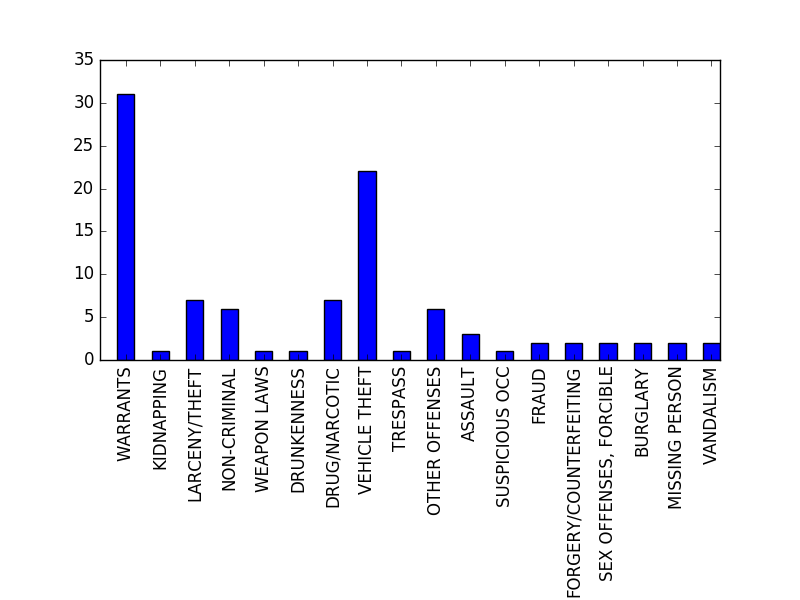
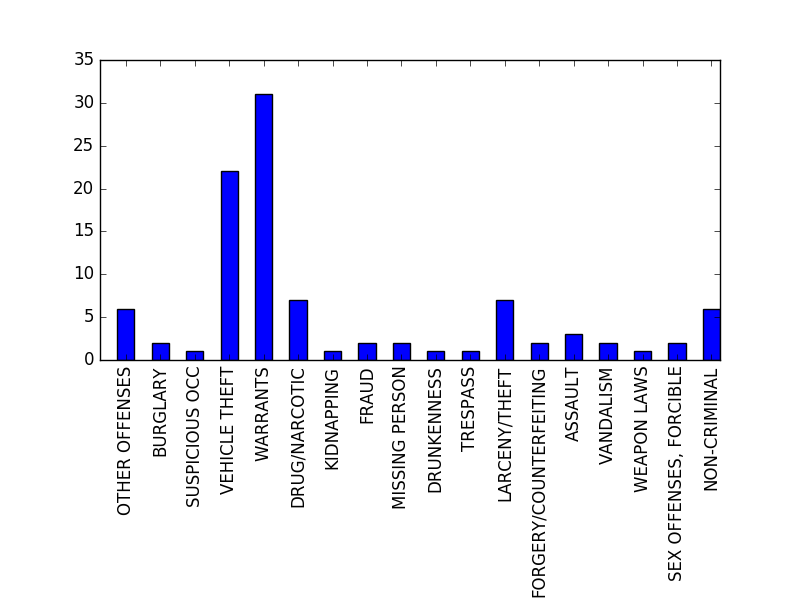
combined source + coord fix
Combined working separate files to single total_source file.
Noted old files as outdated.
Fixed not catching (0,0) coordinates due to string literals.

Changed region(s): [[0.125, 0.15, 0.9062, 1.0], [0.125, 0.15, 0.1875, 0.54], [0.6875, 0.54, 0.75, 0.57]]

diff --git a/dataviz/my_source/total_source.py b/dataviz/my_source/total_source.py
@@ -1,0 +1,193 @@
+'''
+Kate Hess
+from newcoder.io Data Viz project
+(doing this again to refresh)
+August 15, 2016
+'''
+"""
+Data Visualization Project
+Parse data from an ugly CSV or Excel file, and render it in
+JSON, save to a database, and visualize in graph form.
+
+Copyright (c) 2013 E. Lynn Root
+Distributed under the zlib png license. See LICENSE for details.
+"""
+import csv
+import json
+import os
+
+from collections import Counter
+
+import geojson
+import matplotlib.pyplot as plt
+import numpy as np
+
+MY_FILE = '../data/sample_sfpd_incident_all.csv'
+
+
+def parse(raw_file, delimiter):
+    '''Parses a raw data CSV file to a JSON-like object.'''
+
+    # Open CSV file
+    opened_file = open(raw_file)
+    # Read CSV file
+    csv_data = csv.reader(opened_file, delimiter=delimiter)
+    # Build a data structure to return parsed_data
+    parsed_data = []
+    # store header row, skips to next line
+    fields = next(csv_data)
+    # loop over each csv row
+    for row in csv_data:
+        parsed_data.append(dict(zip(fields, row)))
+    # Close CSV file
+    opened_file.close()
+    # save parsed_data as JSON file
+    json_output = {"incidents": parsed_data}
+    json_filepath = '../viz_outputs/sample_sfpd_incident_all.json'
+    # remove old JSON output file if it exists
+    try:
+        os.remove(json_filepath)
+    except OSError:
+        pass
+    # write to JSON file
+    with open(json_filepath, 'w') as json_outfile:
+        json.dump(json_output, json_outfile)
+
+    print("Parsed data to JSON-like object.")
+    print("Wrote to JSON file.")
+    return parsed_data
+
+
+def visualize_days(parsed_data):
+    '''Takes JSON-like object of parsed data.
+    Visualize data by day of week.'''
+
+    # make a new variable 'counter' from iterating through each line of
+    # data in the parsed data, and count how many incidents happen on
+    # each day of each week
+    counter = Counter(item['DayOfWeek'] for item in parsed_data)
+    # separate the x-axis data (the days of the week) from the 'counter'
+    # variable from the y-axis data (the number of incidents each day)
+    data_list = [
+                counter['Monday'],
+                counter['Tuesday'],
+                counter['Wednesday'],
+                counter['Thursday'],
+                counter['Friday'],
+                counter['Saturday'],
+                counter['Sunday']
+                ]
+    # create x-axis string labels
+    day_tuple = tuple(["Mon", "Tues", "Wed", "Thurs", "Fri", "Sat", "Sun"])
+    # with that y-axis data, assign it to a matplotlib instance
+    plt.plot(data_list)
+    # create the amount of ticks needed for x-axis and assign labels
+    plt.xticks(range(len(day_tuple)), day_tuple)
+    # create save filepath
+    outpath = "../viz_outputs/Days.png"
+    # remove old output file if it exists
+    try:
+        os.remove(outpath)
+    except OSError:
+        pass
+    # save the plot
+    plt.savefig(outpath)
+    # close plot file
+    plt.clf()
+    print("Saved Days graph.")
+
+
+def visualize_type(parsed_data):
+    """Visualize data from JSON-like obj by category in a bar graph"""
+
+    # make a new variable, 'counter', from iterating through each line
+    # of data in the parsed data, and count how many incidents happen
+    # by category
+    counter = Counter(item['Category'] for item in parsed_data)
+    # Set the labels which are based on the keys of our counter.
+    # Since order doesn't matter, we can just used counter.keys()
+    labels = tuple(counter.keys())
+    # Set exactly where the labels hit the x-axis
+    xlocations = np.arange(len(labels)) + 0.5
+    # Width of each bar that will be plotted
+    width = 0.5
+    # Assign data to a bar plot (similar to plt.plot()!)
+    plt.bar(xlocations, counter.values(), width=width)
+    # Assign labels and tick location to x-axis
+    plt.xticks(xlocations + width / 2, labels, rotation=90)
+    # Give some more room so the x-axis labels aren't cut off in the
+    # graph
+    plt.subplots_adjust(bottom=0.4)
+    # Make the overall graph/figure is larger
+    plt.rcParams['figure.figsize'] = 12, 8
+    # create save filepath
+    outpath = "../viz_outputs/Type.png"
+    # remove old output file if it exists
+    try:
+        os.remove(outpath)
+    except OSError:
+        pass
+    # save the plot
+    plt.savefig(outpath)
+    # close plot file
+    plt.clf()
+    print("Saved Types graph.")
+
+
+def create_map(parsed_data):
+    '''Takes JSON-like data file to GeoJSON file.'''
+    # Define type of GeoJSON we're creating
+    geo_map = {"type": "FeatureCollection"}
+    # Define empty list to collect each point to graph
+    item_list = []
+    # Iterate over our data to create GeoJSON document.
+    # We're using enumerate() so we get the line, as well
+    # the index, which is the line number.
+    for index, row in enumerate(parsed_data):
+        # Skip any zero coordinates as this will throw off
+        # our map.
+        if float(row['X']) == 0 or float(row['Y']) == 0:
+            continue
+        # Setup a new dictionary for each iteration.
+        data = {}
+        # Assign line items to appropriate GeoJSON fields.
+        data['type'] = 'Feature'
+        data['id'] = index
+        data['properties'] = {'title': row['Category'],
+                              'description': row['Descript'],
+                              'date': row['Date']}
+        data['geometry'] = {'type': 'Point',
+                            'coordinates': (row['X'], row['Y'])}
+        # Add data dictionary to our item_list
+        item_list.append(data)
+
+    # For each point in our item_list, we add the point to our
+    # dictionary.  setdefault creates a key called 'features' that
+    # has a value type of an empty list.  With each iteration, we
+    # are appending our point to that list.
+    for point in item_list:
+        geo_map.setdefault('features', []).append(point)
+    # Now that all data is parsed in GeoJSON write to a file so we
+    # can upload it to gist.github.com
+    # remove old output if it exists
+    outpath = '../viz_outputs/file_sf.geojson'
+    try:
+        os.remove(outpath)
+    except OSError:
+        pass
+    # save file
+    with open(outpath, 'w') as f:
+        f.write(geojson.dumps(geo_map))
+    print("Saved to GeoJSON file.")
+    return geo_map
+
+
+def main():
+    # Boilerplate
+    parsed_data = parse(MY_FILE, ',')
+    visualize_days(parsed_data)
+    visualize_type(parsed_data)
+    return create_map(parsed_data)
+
+if __name__ == "__main__":
+    main()
